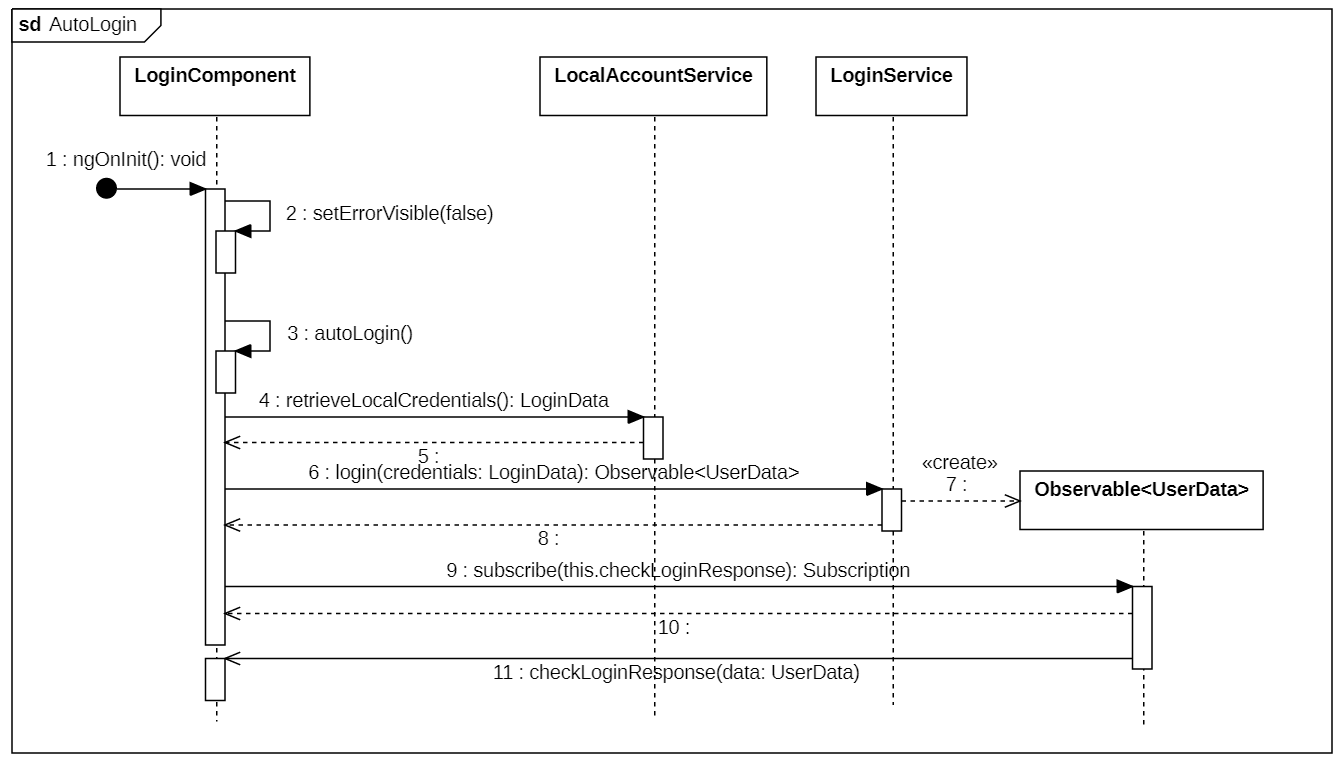
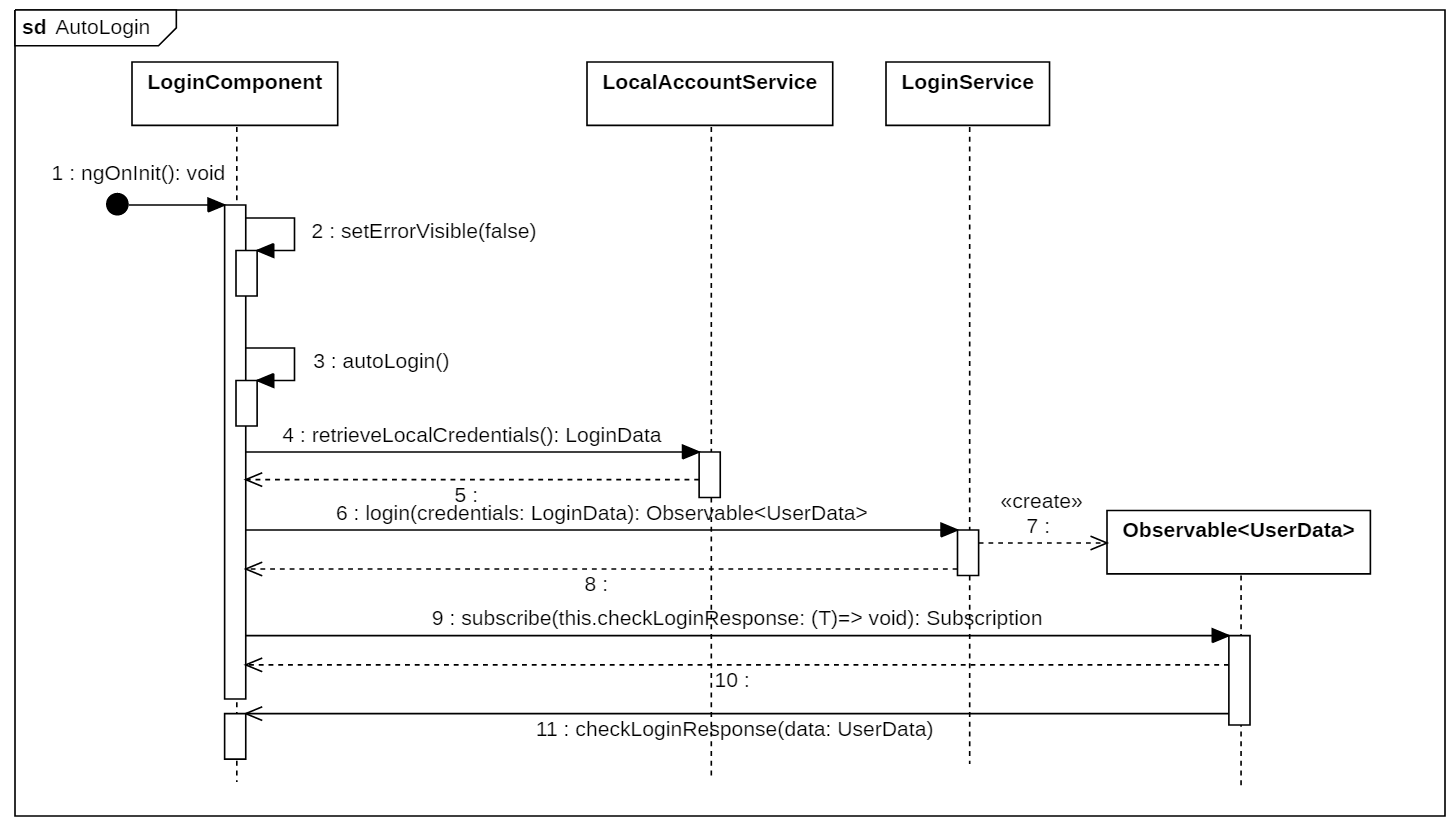
corretti errori

diff --git a/esterni/ManualeManutentore/res/sections/Web-appamministratori.tex b/esterni/ManualeManutentore/res/sections/Web-appamministratori.tex
@@ -25,7 +25,7 @@ Lo si può scaricare compresso in formato zip direttamente dal sito o, se si ha 
 \paragraph{Typescript}
 Superset del linguaggio Javascript. Viene utilizzato per definire la logica dell'applicazione. \newline
 Per poterlo utilizzare con Angular, esso va prima installato col comando \newline
-\texttt{npm install -g typescript}
+	\texttt{npm install -g typescript}
 
 \paragraph{HTML}
 Linguaggio di markup utilizzato per definire la struttura delle pagine web. Non necessita di installazione.
@@ -48,16 +48,19 @@ Framework per la creazione di pagine web.
 Per l'integrazione di Bootstrap in Angular fare riferimento alla pagina \url{https://www.npmjs.com/package/@ng-bootstrap/ng-bootstrap#installation}. La versione utilizzata per lo sviluppo è la 4.5.0.
 
 \subsubsection{Test}
-Per i test abbiamo utilizzato il framework Jasmine. Per utilizzarlo con Angular è necessario installarlo col comando \texttt{npm install -g jasmine} \newline
+Per i test abbiamo utilizzato il framework Jasmine. Per utilizzarlo con Angular è necessario installarlo col comando \newline
+	\texttt{npm install -g jasmine} \newline
 La versione di Jasmine utilizzata per lo sviluppo è la 2.8.0. \newline
-Per eseguire i test usare il comando \texttt{ng test} \newline
+Per eseguire i test usare il comando \newline
+	\texttt{ng test} \newline
 I test verranno eseguiti tramite il programma Karma e i loro risultati saranno visualizzati in una pagina del browser aperta automaticamente.
 
-\subsubsection{IDE}
+\subsubsection{Ambiente di sviluppo}
 Per lo sviluppo abbiamo utilizzato l'IDE WebStorm. Per la sua installazione riferirsi alla pagina \url{https://www.jetbrains.com/webstorm/download/}. La versione utilizzata per lo sviluppo è la 2020.3.3.
 
 \subsubsection{Esecuzione}
-Una volta installate le tecnologie sopra elencate si potrà eseguire la webapp aprendo un terminale nella root del progetto ed eseguendo il comando \texttt{ng serve} \newline
+Una volta installate le tecnologie sopra elencate si potrà eseguire la webapp aprendo un terminale nella root del progetto ed eseguendo il comando \newline
+	\texttt{ng serve} \newline
 Verrà eseguito un server locale accessibile all'indirizzo \url{http://localhost:4200}
 
 
@@ -113,6 +116,8 @@ Per introdurre invece un servizio si dovrà usare il comando \newline
 Per la struttura dei componenti e dei servizi fare riferimento alla sottosezione precedente.
 
 \subsection{Diagrammi dei package}
+
+\subsubsection{Visione generale}
 \begin{figure}[H]
 	\centering
 	\includegraphics[width=18cm]{res/images/webapp-totale-diagrammaPackage.png}
@@ -182,10 +187,10 @@ Nel diagramma sovrastante sono rappresentate le classi utilizzate dalla pagina d
 Classe che si occupa della gestione del login manuale, ovvero tramite l'inserimento delle credenziali da parte dell'utente, e di quello automatico, ovvero tramite l'utilizzo delle credenziali precedentemente salvate nel local storage del browser. \newline
 Questa classe contiene i seguenti attributi:
 \begin{itemize}
-	\item \textbf{username: string}
-	\item \textbf{password: string}
-	\item \textbf{autoLoggedIn: boolean}
-	\item \textbf{errorVisible: string}
+	\item \textbf{autoLoggedIn: boolean} \newline
+	Variabile utilizzata per memorizzare il successo o meno del login automatico.
+	\item \textbf{errorVisible: string} \newline
+	Variabile che determina la visibilità dell'errore mostrato all'utente.
 \end{itemize}
 Questa classe presenta i seguenti metodi:
 \begin{itemize}
@@ -254,10 +259,10 @@ Il diagramma sovrastante rappresenta l'architettura utilizzata per la pagina di 
 Classe che si occupa della visualizzazione, eliminazione e, tramite i componenti AddEditWorkstation e AddEditRoom, dell'aggiunta e modifica di postazioni e stanze. \newline
 Questa classe contiene i seguenti attributi:
 \begin{itemize}
-	\item \textbf{roomsMap: Map<number, Array<WorkstationData>>} \newline
+	\item \textbf{roomsMap: Map<number, Array<WorkstationData> >} \newline
 		Map in cui ad ogni stanza sono assegnate le sue postazione, ovvero quelle con \texttt{idroom} uguale all'\texttt{id} della stanza. Se l'utente applica un filtro alla lista, qui verranno contenute solo le stanze e le postazioni selezionate da tale filtro.
 	\item \textbf{roomsList: Array<RoomsData>} \newline
-		Array utilizzato per contenere le stanze ottenutedal server
+		Array utilizzato per contenere le stanze ottenute dal server
 	\item \textbf{workstationList: Array<Workstation>} \newline
 		Array utilizzato per contenere le postazioni ottenute dal server.
 	\item \textbf{searchId: string} \newline
@@ -274,9 +279,9 @@ Questa classe contiene i seguenti attributi:
 Questa classe presenta i seguenti metodi:
 \begin{itemize}
 	\item \textbf{ngOnInit(): void} \newline
-	Questa funzione viene chiamata all'inizializzazione della pagina.
+	Questa funzione viene chiamata all'inizializzazione della pagina e provoca l'aggiornamento di roomsMap.
 	\item \textbf{getRoomsMapKeys(): Array<number>} \newline
-	Restituisce un array con gli id delle stanze contenute in \texttt{roomsMap}
+	Restituisce un array con gli id delle stanze contenute in \texttt{roomsMap}.
 	\item \textbf{getRoomInfoById(id: number): RoomData} \newline
 	Restituisce un oggetto \texttt{RoomData} con i dati della stanza identificata dall'id passato come parametro.
 	\item \textbf{setRoomList(roomData: Array<RoomData>): void} \newline
@@ -369,7 +374,7 @@ Questa classe contiene i seguenti attributi:
 \end{itemize}
 Questa classe presenta i seguenti metodi:
 \begin{itemize}
-	\item \textbf{getWorkstationList(): Observable<Array<WorkstationData>> 	} \newline
+	\item \textbf{getWorkstationList(): Observable<Array<WorkstationData> > 	} \newline
 	Usato per ottenere una lista delle postazioni.
 	\item \textbf{addWorkstation(val: WorkstationData): Observable<string> 	} \newline
 	Usato per tentare di aggiungere la postazione indicata in \texttt{val} e di ricevere l'esito dell'operazione.
@@ -387,7 +392,7 @@ Questa classe contiene i seguenti attributi:
 \end{itemize}
 Questa classe presenta i seguenti metodi:
 \begin{itemize}
-	\item \textbf{getRoomsList(): Observable<Array<RoomData>> 	} \newline
+	\item \textbf{getRoomsList(): Observable<Array<RoomData> > 	} \newline
 	Usato per ottenere una lista delle stanze.
 	\item \textbf{addRoom(val: RoomData): Observable<string> 	} \newline
 	Usato per tentare di aggiungere la stanza indicata in \texttt{val} e di ricevere l'esito dell'operazione.
@@ -415,7 +420,7 @@ Questa classe presenta i seguenti metodi:
 	\caption{Diagramma delle classi per la gestione delle credenziali}
 	\label{fig:DiagrammaClassiCredenziali}
 \end{figure}
-Il diagramma delle classi sovrastante rappresenta le classi coinvolte nella nella pagina di gestione delle credenziali, e le loro relazioni. Il funzionamento di questa pagina è simile a quello della pagina di gestione delle stanze e delle postazioni (§3.6.2). Qui la classe \texttt{ShowCredentialComponent} si occupa di ottenere la lista delle credenziali dal servizio \texttt{UserService} tramite oggetti \texttt{Observable}. Essa delega alla classe \texttt{AddEditCredentialComponent} l'aggiunta e modifica di credenziali. Il passaggio delle informazioni riguanti le credenziali viene sempre attuato tramile oggetti della classe \texttt{UserData}.
+Il diagramma delle classi sovrastante rappresenta le classi coinvolte nella pagina di gestione delle credenziali, e le loro relazioni. Il funzionamento di questa pagina è simile a quello della pagina di gestione delle stanze e delle postazioni. Qui la classe \texttt{ShowCredentialComponent} si occupa di ottenere la lista delle credenziali dal servizio \texttt{UserService} tramite oggetti \texttt{Observable}. Essa delega alla classe \texttt{AddEditCredentialComponent} l'aggiunta e modifica di credenziali. Il passaggio delle informazioni riguanti le credenziali viene sempre attuato tramile oggetti della classe \texttt{UserData}.
 
 \paragraph{Classi}
 \subparagraph{ShowCredentialComponent}
@@ -477,7 +482,7 @@ Questa classe contiene i seguenti attributi:
 \end{itemize}
 Questa classe presenta i seguenti metodi:
 \begin{itemize}
-	\item \textbf{getUserList(): Observable<Array<UserData>>} \newline
+	\item \textbf{getUserList(): Observable<Array<UserData> >} \newline
 	Fornisce un'array contenente tutte le credenziali presenti sul server
 	\item \textbf{addUser(val: UserData): Observable<string>} \newline
 	Permette di aggiungere una credenziale al server. Restituisce l'esito dell'operazione sotto forma di stringa.
@@ -504,7 +509,7 @@ Questa classe presenta i seguenti metodi:
 	\caption{Diagramma di sequenza per l'evento di login automatico}
 	\label{fig:DiagrammaSequenzaAutoLogin}
 \end{figure}
-Il diagramma sovrastante rappresenta l'evento di login automatico. L'evento è provocato dall'inizializzazione della pagina (\texttt{ngOnInit}). La sequenza consiste nel richiedere le credenziali salvate nel browser tramite il \texttt{LocalAccountService} ( \texttt{retrieveLocalCredentials}) e di tentare un'autenticazione al server con esse tramite il \texttt{LoginService} (\texttt{login}). In caso di esito positivo viene resituito da quest'ultimo servizio un oggetto \texttt{UserData} con i dati dell'utente che si è autenticato. La funzione \texttt{checkLogin} gestisce la risposta del server.
+Il diagramma sovrastante rappresenta l'evento di login automatico. L'evento è provocato dall'inizializzazione della pagina (\texttt{ngOnInit}). La sequenza consiste nel richiedere le credenziali salvate nel browser tramite il \texttt{LocalAccountService} ( \texttt{retrieveLocalCredentials}) e di tentare un'autenticazione al server con esse tramite il \texttt{LoginService} (\texttt{login}). In caso di esito positivo viene resituito da quest'ultimo servizio un oggetto \texttt{UserData} con i dati dell'utente che si è autenticato. La funzione \texttt{checkLoginResponse} gestisce la risposta del server provocando il reindirizzamento alla home page, in caso di successo, o la visualizzazione del form per l'inserimento delle credenziali.
 \subsubsection{Gestione stanze e postazioni}
 \begin{figure}[H]
 	\centering
@@ -512,7 +517,7 @@ Il diagramma sovrastante rappresenta l'evento di login automatico. L'evento è p
 	\caption{Diagramma di sequenza per la visualizzazione delle stanze e delle postazioni}
 	\label{fig:DiagrammaSequenzaStanzePostazioni1}
 \end{figure}
-Il diagramma sovrastante rappresenta un'evento scatenato dall'inizializzazione della pagina (notificata tramite la funzione \texttt{ngOnInit()}) che consiste nell'ottenimento di una lista delle postazioni e delle stanze dal server e della suddivisione delle prime in una mappa. Questa mappa verrà utilizzata dalla vista per mostrare le postazioni suddivise in stanze. L'evento rappresentato nel diagramma viene provocato ogni volta che si chiama il metodo \texttt{refreshAll()}. Questa funzionalità viene utilizzata, per esempio, dopo che una postazione è stata eliminata o modificata.
+Il diagramma sovrastante rappresenta un'evento scatenato dall'inizializzazione della pagina (notificata tramite la funzione \texttt{ngOnInit}) che consiste nell'ottenimento di una lista delle postazioni e delle stanze dal server e della suddivisione delle prime in una mappa. Questa mappa verrà utilizzata dalla vista per mostrare le postazioni suddivise in stanze. L'evento rappresentato nel diagramma viene provocato ogni volta che si chiama il metodo \texttt{refreshAll}. Questa funzionalità viene utilizzata anche, per esempio, dopo che una postazione è stata eliminata o modificata.
 \begin{figure}[H]
 	\centering
 	\includegraphics[width=18cm]{res/images/webapp-addEditStanzePostazioni-diagrammaSequenza.png}
@@ -520,7 +525,7 @@ Il diagramma sovrastante rappresenta un'evento scatenato dall'inizializzazione d
 	\label{fig:DiagrammaSequenzaStanzePostazioni2}
 \end{figure}
 Il diagramma sovrastante rappresenta l'evento di aggiunta o modifica di una stanza.
-In entrambi i casi l'evento è provocato dalla chiamata del metodo \texttt{takeAction()}, provocata dalla pressione di un pulsante da parte dell'utente. A questo punto la scelta dell'una o dell'altra via è determinata dal parametro \texttt{action}, che ha assunto valore 'add' o 'edit' a seconda del comportamento dell'utente.
+In entrambi i casi l'evento è provocato dalla chiamata del metodo \texttt{takeAction} successiva alla pressione di un pulsante da parte dell'utente. A questo punto la scelta dell'una o dell'altra via è determinata dal parametro \texttt{action}, che ha assunto valore 'add' o 'edit' a seconda del pulsante premuto.
 \subsubsection{Gestione credenziali}
 \begin{figure}[H]
 	\centering
@@ -535,7 +540,7 @@ Il diagramma sovrastante rappresenta l'evento di visualizzazione delle credenzia
 	\caption{Diagramma di sequenza per l'aggiunta e la modifica delle credenziali}
 	\label{fig:DiagrammaSequenzaVisualizzazioneCredenziali}
 \end{figure}
-Il diagramma sovrastanza rappresenta l'azione di aggiunta o modifica di una credenziale da parte di un'amministratore. In entramb ii casi l'azione è provocata dalla chiamata a \texttt{takeAction}, eseguita dall'utente tramite la pressione di un pulsante. Successivamente viene eseguita l'aggiunta (\texttt{addCredential}) o la modifica (\texttt{editCredential}) della credenziale specificata dai valori inseriti dall'utente.
+Il diagramma sovrastante rappresenta l'azione di aggiunta o modifica di una credenziale da parte di un'amministratore. In entrambi i casi l'azione è provocata dalla chiamata a \texttt{takeAction}, eseguita dall'utente tramite la pressione di un pulsante. Successivamente viene eseguita l'aggiunta (\texttt{addCredential}) o la modifica (\texttt{editCredential}) della credenziale definita dai valori inseriti precedentemente dall'utente.
 
 
 
